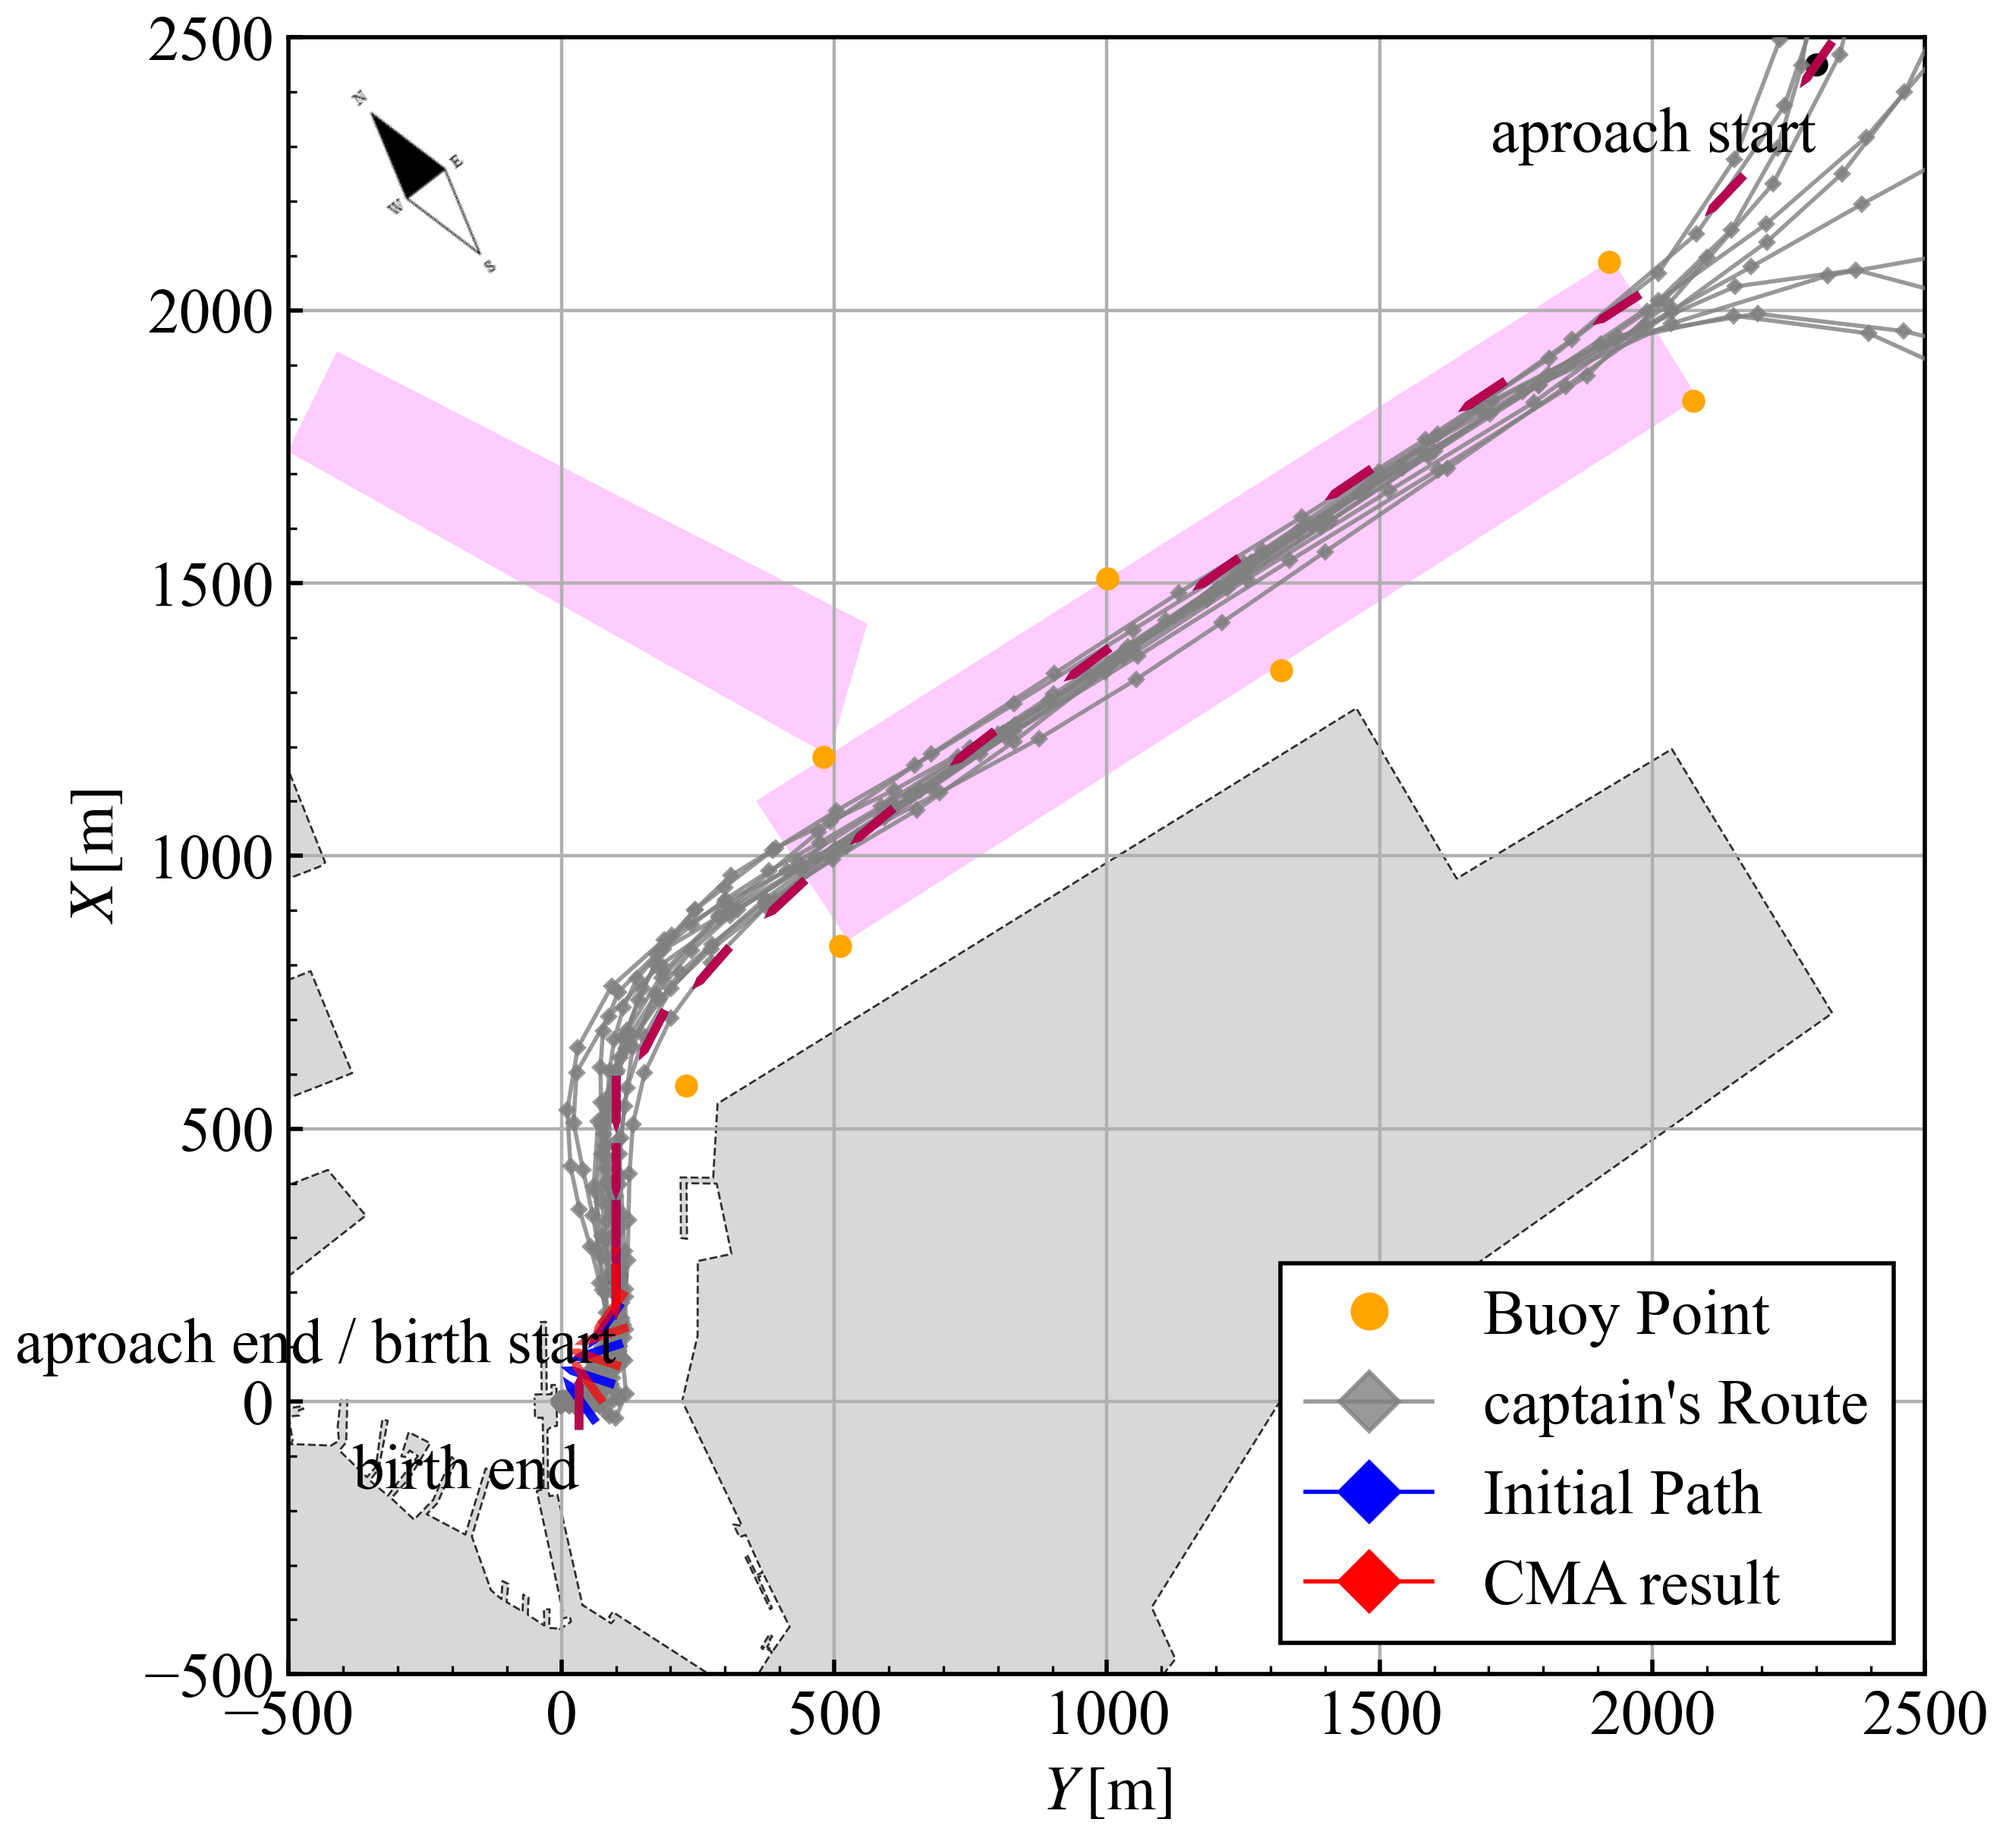
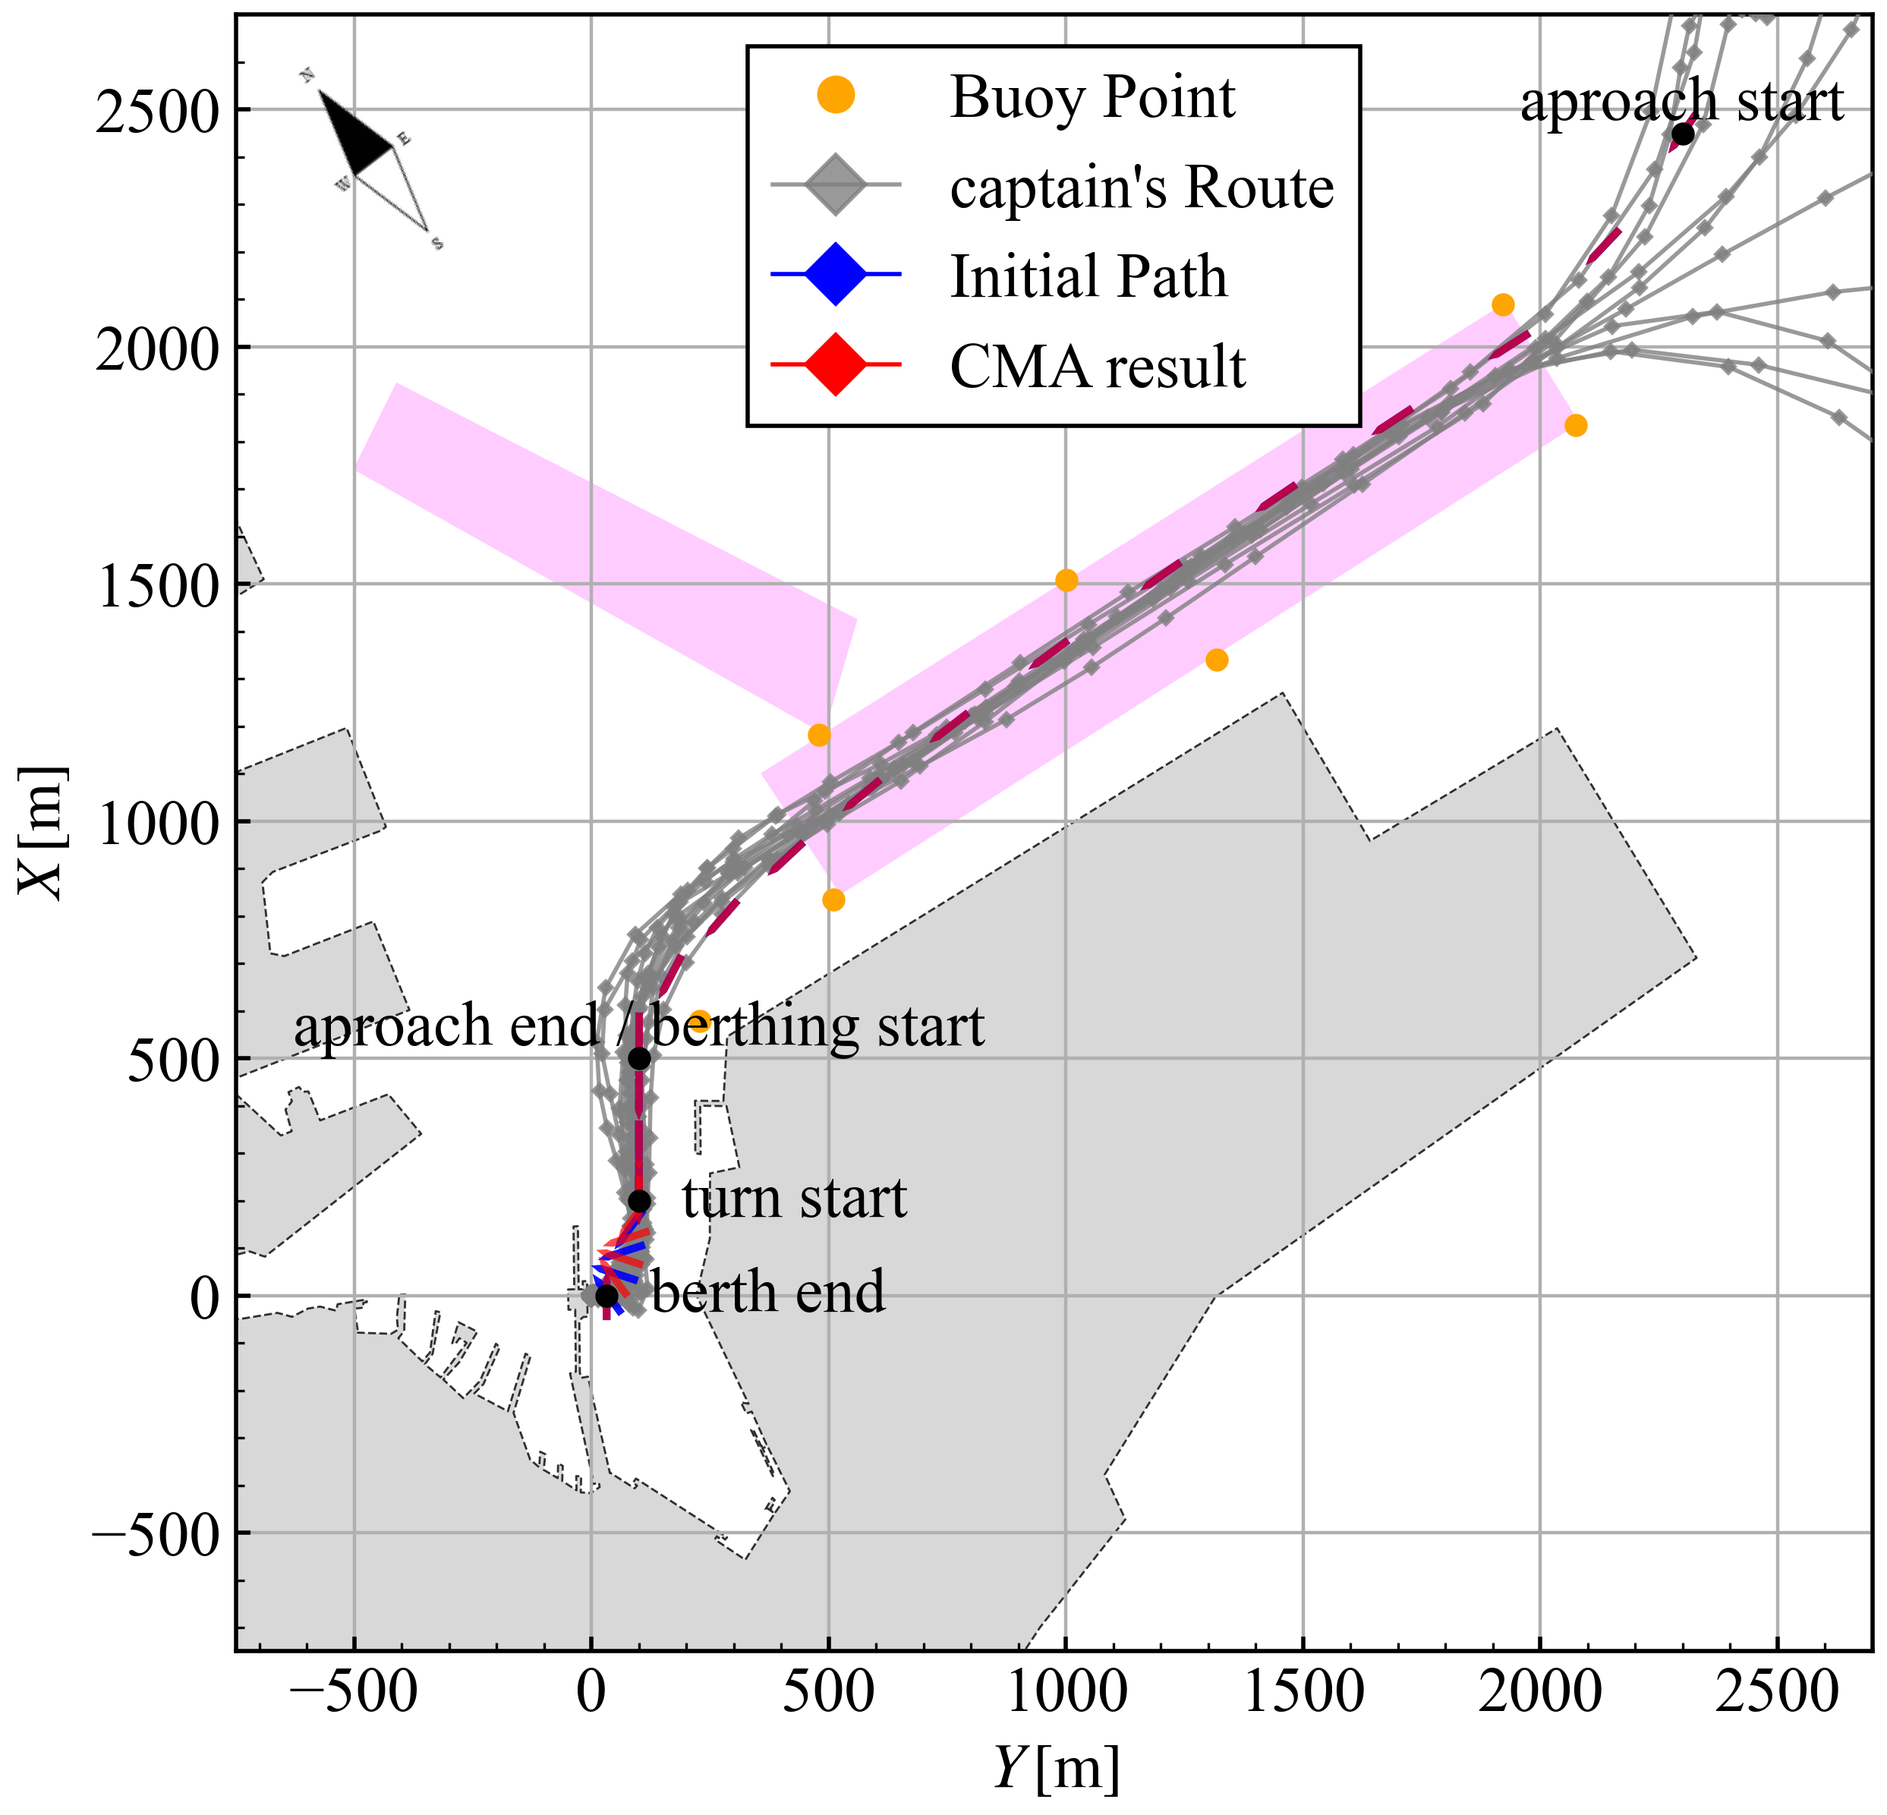
色々図増やした

diff --git a/program/path_planning/CMA-ES3.py b/program/path_planning/CMA-ES3.py
@@ -371,7 +371,7 @@ class MakeLine:
         SD.b_SD = self.df_debug["b_SD"].values[0]
 
         self.SD = SD
-        print("Ship Domain set up complete\n")
+        print("\nShip Domain set up complete\n")
 
     def prepare_for_init_route(self):
         self.init_fig()
@@ -570,6 +570,8 @@ class MakeLine:
         Line.hor_range = self.port["hor_range"]
         Line.ver_range = self.port["ver_range"]
 
+        print("all csv read\n")
+
     def init_fig(self):
         self.fig, self.ax = plt.subplots(figsize=(7, 7))
 
@@ -640,12 +642,13 @@ class MakeLine:
         h = ax.legend(handles=legends)
         fig.savefig(os.path.join(self.SAVE_DIR, "base_map.png"),
                     dpi=400, bbox_inches="tight", pad_inches=0.05)
-        print("\nbase map saved\n")
+        print("base map saved\n")
 
         h.remove()
         self.legends = legends
 
     def make_init_line(self):
+        ax = self.ax
         port = self.port
         lines = []
 
@@ -655,9 +658,24 @@ class MakeLine:
         Line.map_poly = poly_map
         Line.map_poly_prep = prep(poly_map)
 
-        # from start point
-        L_start = Line(fixed_pt=port["start"], theta=np.deg2rad(port["psi_start"]))
-        lines.append(L_start)
+        # from berth point
+        theta = 0
+        margin = 2*self.ps.B
+        if port["psi_end"] == 0:
+            if port["side"] == "starboard":
+                margin = -self.ps.B
+            if port["style"] == "head in":
+                theta = 180
+            theta = np.deg2rad(theta)
+        else:
+            theta = np.deg2rad(port["psi_end"] + 10)
+        L_berth = Line(fixed_pt=np.array((0.0, margin)), theta=theta)
+        L_berth.swap()
+        lines.append(L_berth)
+        self.lines = lines
+
+        ## save fig
+        self.show_init_lines("init lines step.1")
 
         # from shipping lane
         lane_polys = []
@@ -679,23 +697,18 @@ class MakeLine:
             lane_polys.append(poly_lane)
             print(f"shipping lane {pid} complete")
         Line.lane = shapely.union_all(lane_polys)
+        lines[:] = lines[1:] + lines[:1]
 
-        # from birth point
-        theta = 0
-        margin = 2*self.ps.B
-        if port["psi_end"] == 0:
-            if port["side"] == "starboard":
-                margin = -self.ps.B
-            if port["style"] == "head in":
-                theta = 180
-            theta = np.deg2rad(theta)
-        else:
-            theta = np.deg2rad(port["psi_end"] + 10)
-        L_birth = Line(fixed_pt=np.array((0.0, margin)), theta=theta)
-        L_birth.swap()
-        lines.append(L_birth)
-        self.lines = lines
-        self.show_init_line()
+        ## save fig
+        self.show_init_lines("init lines step.2")
+
+        # from start point
+        L_start = Line(fixed_pt=port["start"], theta=np.deg2rad(port["psi_start"]))
+        lines.insert(0, L_start)
+
+        ## save fig
+        self.show_init_lines("init lines step.3")
+        print("\ninit lines saved\n")
 
     def make_captain_line(self):
         lines = self.lines
@@ -707,31 +720,31 @@ class MakeLine:
         base_idx = len(lines) - 1
         while True:
             # check nearlest intersection
-            L_birth = lines[base_idx]; idx = None
-            shortest = np.linalg.norm(L_birth.fixed_pt - L_birth.end_pt)
+            L_berth = lines[base_idx]; idx = None
+            shortest = np.linalg.norm(L_berth.fixed_pt - L_berth.end_pt)
 
             if base_idx == 1:
-                if cross_judge(lines[0], L_birth):
-                    intersect_pt = cal_intersect_pt(lines[0], L_birth)
-                    length = np.linalg.norm(intersect_pt - L_birth.end_pt)
+                if cross_judge(lines[0], L_berth):
+                    intersect_pt = cal_intersect_pt(lines[0], L_berth)
+                    length = np.linalg.norm(intersect_pt - L_berth.end_pt)
                     if length < shortest:
                         shortest = length; idx = 0
             else:
                 for i in range(1, base_idx):
-                    if cross_judge(lines[i], L_birth):
-                        intersect_pt = cal_intersect_pt(lines[i], L_birth)
-                        length = np.linalg.norm(intersect_pt - L_birth.end_pt)
+                    if cross_judge(lines[i], L_berth):
+                        intersect_pt = cal_intersect_pt(lines[i], L_berth)
+                        length = np.linalg.norm(intersect_pt - L_berth.end_pt)
                         if length < shortest:
                             shortest = length; idx = i      
 
             if idx != None:
-                L_birth.set_parent(lines[idx])
+                L_berth.set_parent(lines[idx])
                 break
             else:
                 longest = 0.0
-                mid = (L_birth.fixed_pt + L_birth.end_pt) / 2
+                mid = (L_berth.fixed_pt + L_berth.end_pt) / 2
                 for deg_i in range(-90, 91):
-                    theta = L_birth.theta + np.deg2rad(deg_i - 180)
+                    theta = L_berth.theta + np.deg2rad(deg_i - 180)
                     L = Line(fixed_pt=mid, end_pt=None, theta=theta)
                     length = np.linalg.norm(L.end_pt - L.fixed_pt)
                     if length > longest:
@@ -740,7 +753,7 @@ class MakeLine:
 
                 L_append = Line(fixed_pt=mid, theta=best_theta + np.deg2rad(5))
                 L_append.swap()
-                L_birth.set_parent(L_append)
+                L_berth.set_parent(L_append)
                 lines.insert(base_idx, L_append)
                 if len(lines) > 10:
                     print("too much line")
@@ -781,11 +794,11 @@ class MakeLine:
         i = np.searchsorted(s_cum, u_split, side="right") - 1
         i = int(np.clip(i, 0, len(seg_len) - 1))
         turn_start_pt = port["turn start"]
-        bitrh_start_pt = [turn_start_pt[0] + 300, turn_start_pt[1]]
-        pts_for_bezier = np.vstack([pts[1:i+1], bitrh_start_pt])
+        berth_start_pt = [turn_start_pt[0] + 300, turn_start_pt[1]]
+        pts_for_bezier = np.vstack([pts[1:i+1], berth_start_pt])
 
         bezier_pts, _ = Bezier.bezier(pts_for_bezier, 100)
-        straight_pts = np.vstack([bitrh_start_pt, turn_start_pt])
+        straight_pts = np.vstack([berth_start_pt, turn_start_pt])
         curve_pts = np.vstack([turn_start_pt, pts[-1]])
 
         # aproach, straight
@@ -838,8 +851,8 @@ class MakeLine:
         self.target_list = self.turn_list[1:-1]
 
         self.aproach_start = aproach_pts[0]
-        self.aproach_end = aproach_pts[-1]
-        self.turn_start = turn_pts[0]
+        self.berth_start = berth_start_pt
+        self.turn_start = turn_start_pt
         self.turn_end = turn_pts[-1]
 
         print(init_list)
@@ -1032,7 +1045,7 @@ class MakeLine:
         return out if X.ndim == 2 else out[0]
      
     # show map
-    def show_init_line(self):
+    def show_init_lines(self, name):
         ax = self.ax
         lines = self.lines
 
@@ -1043,11 +1056,12 @@ class MakeLine:
             h_fixed, = ax.plot(ln.fixed_pt[1], ln.fixed_pt[0], marker='o', linestyle='None', color='k')
             h_end, = ax.plot(ln.end_pt[1], ln.end_pt[0], marker='o', linestyle='None', color='g')
             handles.extend([h, h_fixed, h_end])
-        plt.savefig(os.path.join(self.SAVE_DIR, "init line.png"),
+        plt.savefig(os.path.join(self.SAVE_DIR, f"{name}.png"),
                     dpi=400, bbox_inches="tight", pad_inches=0.05)
-        print("\ninit line saved\n")
+        
         for h in handles:
             h.remove()
+        print(f"{name} saved")
 
     def show_captain_line(self):
         ax = self.ax
@@ -1072,10 +1086,6 @@ class MakeLine:
         h_list = []
 
         list = self.init_list
-        pt_list = list[:,:2]; psi_list = list[:, 2]
-
-        # path
-        # ax.plot(pt_list[:, 1], pt_list[:, 0], color="blue", linestyle='-', alpha=0.5, zorder=6)
 
         # ship shape
         for pose in list:
@@ -1103,8 +1113,8 @@ class MakeLine:
         plt.savefig(os.path.join(self.SAVE_DIR, "init path.png"),
                     dpi=400, bbox_inches="tight", pad_inches=0.05)
         # zoom
-        ax.set_xlim([-500, 500])
-        ax.set_ylim([-500, 500])
+        ax.set_xlim([-750, 750])
+        ax.set_ylim([-750, 750])
         plt.savefig(os.path.join(self.SAVE_DIR, "init path zoom.png"),
                     dpi=400, bbox_inches="tight", pad_inches=0.05)
         print("init path saved\n")
@@ -1115,30 +1125,30 @@ class MakeLine:
 
     def add_text(self, ax, h_list):
         x_as, y_as = self.aproach_start
-        p1 = ax.scatter(y_as, x_as, c="black", s=20)
+        p1 = ax.scatter(y_as, x_as, c="black", s=20, zorder=10)
         t1 = ax.annotate("aproach start", xy=(y_as, x_as),
-                        xytext=(0, -10), textcoords="offset points",
-                        ha="right", va="top", fontsize=15, zorder=10)
+                        xytext=(0, 0), textcoords="offset points",
+                        ha="center", va="bottom", fontsize=15, zorder=10)
 
-        x_ae, y_ae = self.aproach_end
-        p2 = ax.scatter(y_ae, x_ae, c="black", s=20)
-        t2 = ax.annotate("aproach end / birth start", xy=(y_ae, x_ae),
-                        xytext=(0, -10), textcoords="offset points",
-                        ha="right", va="top", fontsize=15, zorder=10)
+        x_bs, y_bs = self.berth_start
+        p2 = ax.scatter(y_bs, x_bs, c="black", s=20, zorder=10)
+        t2 = ax.annotate("aproach end / berthing start", xy=(y_bs, x_bs),
+                        xytext=(0, 0), textcoords="offset points",
+                        ha="center", va="bottom", fontsize=15, zorder=10)
 
-        # x_ts, y_ts = self.turn_start
-        # p3 = ax.scatter(y_ts, x_ts, c="black", s=20)
-        # t3 = ax.annotate("turn start", xy=(y_ts, x_ts),
-        #                 xytext=(0, -10), textcoords="offset points",
-        #                 ha="right", va="top", fontsize=15)
+        x_ts, y_ts = self.turn_start
+        p3 = ax.scatter(y_ts, x_ts, c="black", s=20, zorder=10)
+        t3 = ax.annotate("turn start", xy=(y_ts, x_ts),
+                        xytext=(+10, 0), textcoords="offset points",
+                        ha="left", va="center", fontsize=15, zorder=10)
 
         x_te, y_te = self.turn_end
-        p4 = ax.scatter(y_te, x_te, c="black", s=20)
-        t4 = ax.annotate("birth end", xy=(y_te, x_te),
-                        xytext=(0, -10), textcoords="offset points",
-                        ha="right", va="top", fontsize=15, zorder=10)
+        p4 = ax.scatter(y_te, x_te, c="black", s=20, zorder=10)
+        t4 = ax.annotate("berth end", xy=(y_te, x_te),
+                        xytext=(+10, 0), textcoords="offset points",
+                        ha="left", va="center", fontsize=15, zorder=10)
 
-        h_list.extend([t1, p1, t2, p2, t4, p4])
+        h_list.extend([t1, p1, t2, p2, p3, t3, t4, p4])
 
     def show_CMA_path(self, best_mean, restart):
         ax = self.ax
@@ -1295,8 +1305,8 @@ class MakeLine:
         # zoom
         for h in h_list:
             h.remove()
-        ax.set_xlim([-500, 500])
-        ax.set_ylim([-500, 500])
+        ax.set_xlim([-750, 750])
+        ax.set_ylim([-750, 750])
         plt.savefig(os.path.join(self.SAVE_DIR, f"CMA Result zoom.png"),
                     dpi=400, bbox_inches="tight", pad_inches=0.05)
         print(f"Result fig saved\n")
@@ -1336,8 +1346,8 @@ class MakeLine:
                 "psi_start": -145,
                 "psi_end": 0,
                 "berth_type": 1,
-                "ver_range": [-500, 2500],
-                "hor_range": [-500, 2500],
+                "ver_range": [-750, 2700],
+                "hor_range": [-750, 2700],
             },
             3: {
                 "name": "Else_port1",
